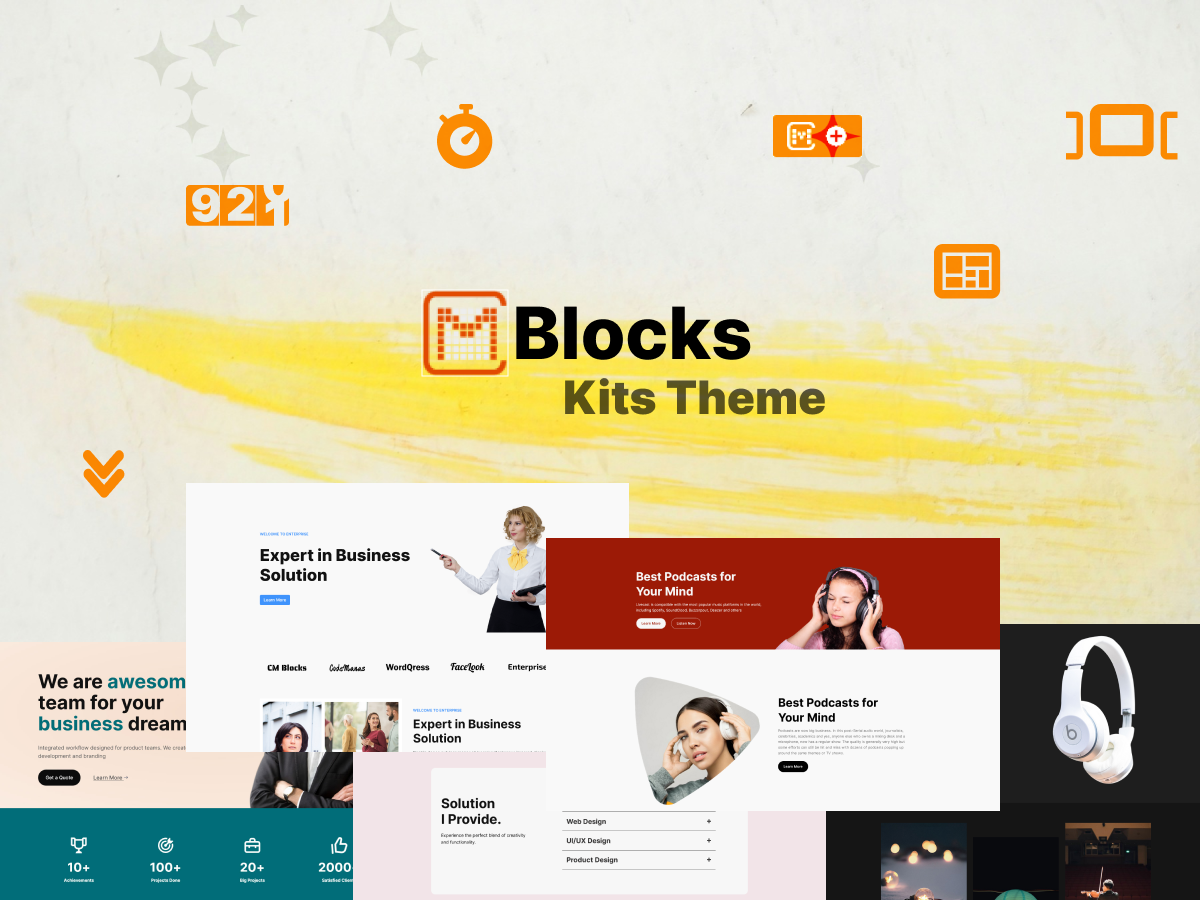
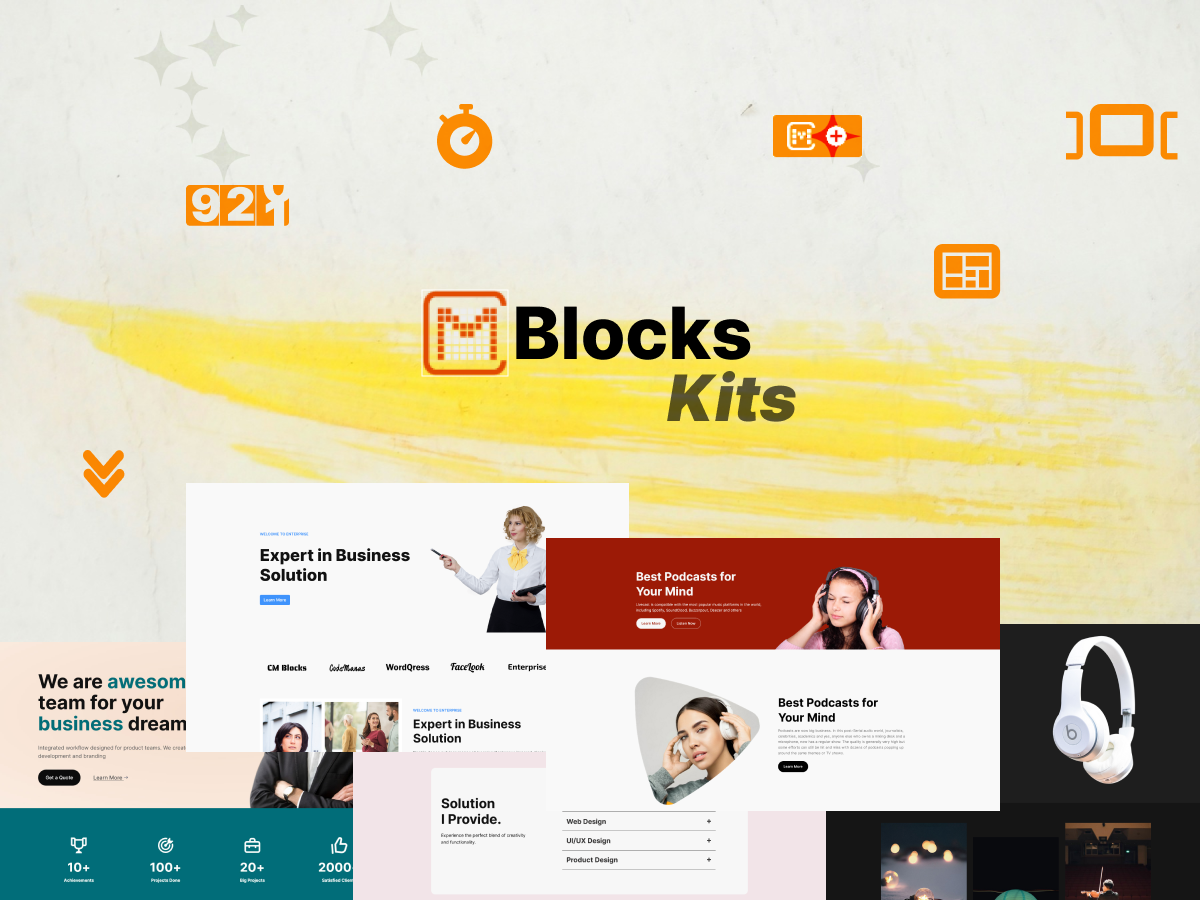
Changes in Kits Section

Changed region(s): [[0.4625, 0.4044, 0.7092, 0.4667]]

diff --git a/docs/kits/features.md b/docs/kits/features.md
@@ -1,13 +1,13 @@
  
  * #### Easy Import:
-Easily import chosen template pages into your project.
+Easily import chosen template pages directly into your websites with just a few clicks, saving time and streamlining workflow.
 * #### Variety of Theme Categories :
-Offers a wide range of themes to suit various styles and purposes.
+Kits offers a wide range of theme categories to suit various styles and purposes, ensuring the perfect design for any type of website, whether it's a blog, a portfolio, or an e-commerce site.
 * #### Multiple Template Pages: 
-Each theme category includes more than four template pages to choose from.
+Each theme category includes multiple pages to choose from, providing with a variety of layout options and design elements to mix and match for your unique needs.
 * ####  Detailed Preview Images: 
-Select preview images to see the detailed design of individual template pages.
+Select preview images to see the detailed design of individual template pages, allowing to closely examine functionality of each page before making a choice.
 * #### Comprehensive Demos:
- Preview each template's layout and style with clear thumbnail images.
+Preview the layout and style of each template with clear thumbnail images and comprehensive demos, providing a full understanding of how the template will look and perform when implemented.
 * #### Customizable Designs:
-Templates are fully customizable to fit specific needs and preferences.
+All templates are fully customizable, allowing to adjust and modify the design to fit specific needs and preferences. This flexibility ensures the website to align perfectly with your vision and branding.

diff --git a/docs/kits/choose-kits.md b/docs/kits/choose-kits.md
@@ -1,20 +1,19 @@
 
-Here are the steps to add our built-in Kit Theme to your website:
+Here are the steps to add our built-in Kit to your website:
 
 * Install and activate **CM Blocks**
 * Open your desired page or post
 * Click on the **Design Library** button at the top of the editor
 * A popup of design library is displayed.
-* Click on **Kits** to display the Kits Theme section.
+* Click on **Kits** to display the Theme section.
 
 ![Design Library button](img/importer-button.png)
 
 ![Design Library for Choose a Kit Theme](img/kits-docs-choose-img.png)
 
+* Clicking on **Kits** displays a collection of themes, such as **Lyrically**, **CM Enterprise**, **CM News** and so on. You can select any Kit Theme as per requirement.
 
-* Clicking on **Kits** displays a collection of Kit Themes, such as **Lyrically**, **CM Enterprise**, **CM News** and so on. You can select any Kit Theme as per requirement.
-
-* You also have the option to search for kits theme using specific keywords using the search bar.
+* You also have the option to search for Kits using specific keywords using the search bar.
 
 * After selecting a theme, a section of templates will be displayed. Select any template to preview it.
 

diff --git a/docs/kits/index.md b/docs/kits/index.md
@@ -2,4 +2,4 @@
 
 ![Kits Theme Banner](img/kits-theme-banner-design-1.png)
 
-Kits offers a wide range of theme categories, each containing more than four template pages. Preview images can be selected to view the detailed design of individual template pages, or a comprehensive demo of the entire theme category can be accessed. Once a preferred design is chosen, the template pages can be  imported. This process makes it straightforward to explore, preview, and use templates in websites.
+Kits is a collection of themes that offers a wide range of categories, each containing multiple template pages. Preview images can be selected to view the detailed design of individual template pages, or a comprehensive demo of the entire theme category can be accessed. Once a preferred design is chosen, the template pages can be  imported. This process makes it straightforward to explore, preview, and use templates in websites.
